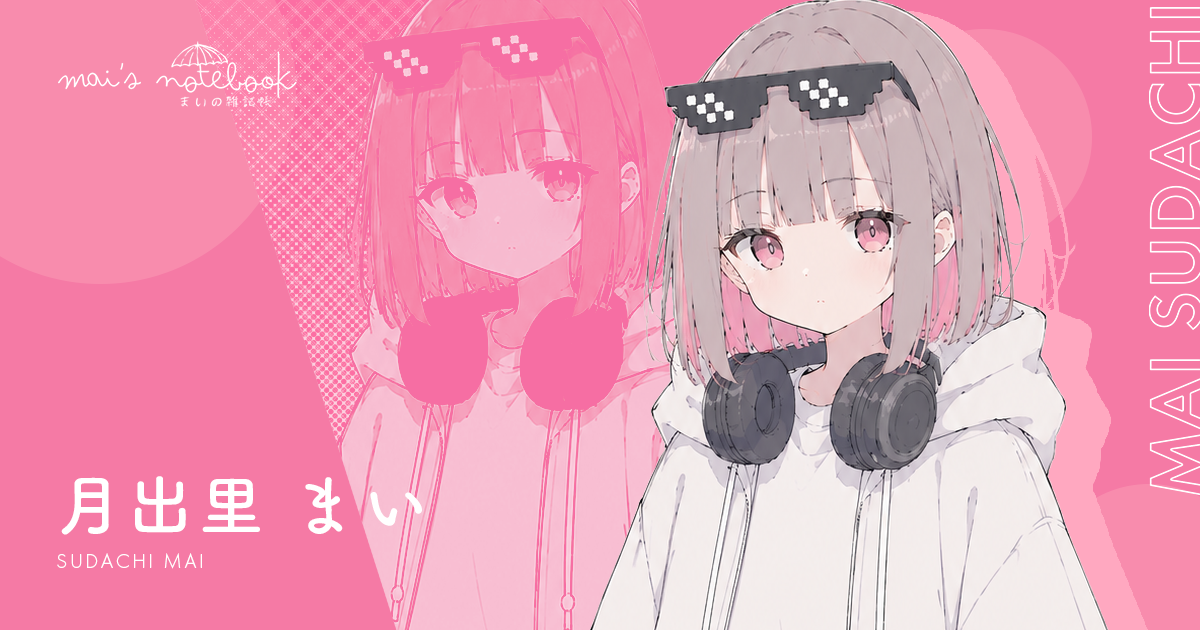
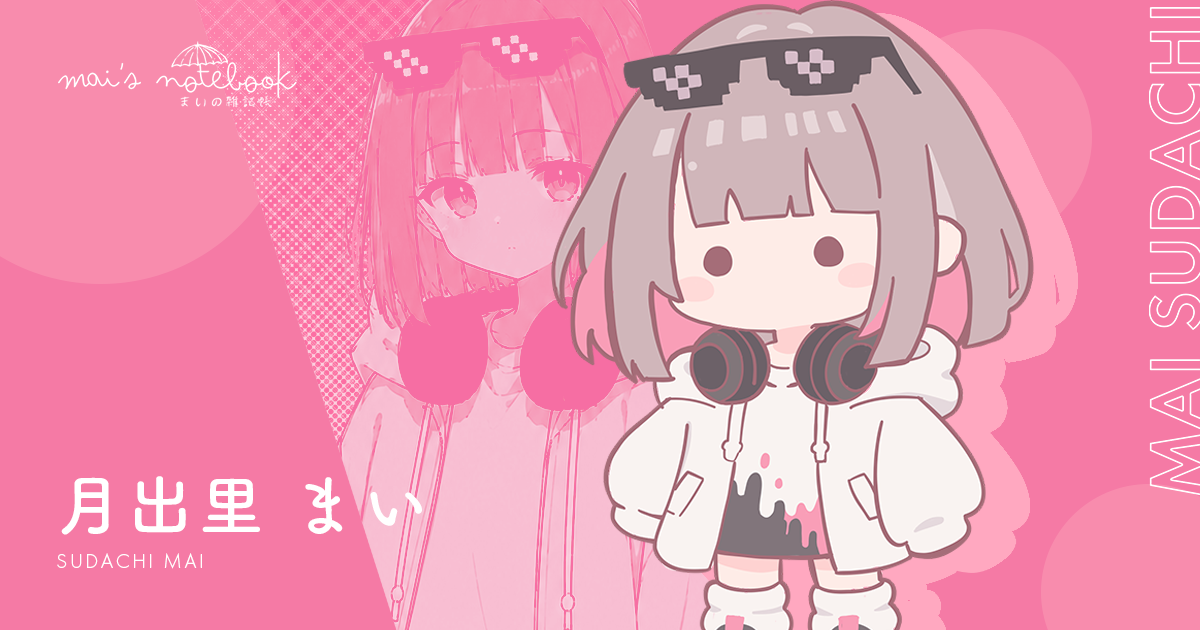
chore: デフォルメ置き換え

Changed region(s): [[0.4317, 0.0, 0.9558, 1.0]]

diff --git a/app/components/AboutHeroVisual.vue b/app/components/AboutHeroVisual.vue
@@ -57,12 +57,12 @@ const socials = Object.values(config.value.socials);
 
       <!-- 立ち絵 -->
       <div
-        class="absolute w-full top-0 z-20 -translate-y-[75%] md:-translate-y-2/3 scale-80 md:scale-100 -right-0 md:right-[15%]">
+        class="absolute w-full top-0 z-20 -translate-y-[88%] translate-x-[22%] md:-translate-y-2/3 md:translate-x-0 scale-80 md:scale-100 -right-0 xl:right-[15%]">
         <div
           class="character-glow absolute w-full h-full top-0 right-0 z-40 bg-white/10 blur-3xl rounded-full transform scale-150">
         </div>
         <NuxtImg src="/images/about/mai.png" format="webp" alt="Mai Sudachi" fetchpriority="high"
-          class="object-contain max-h-[800px] relative z-[60] ml-auto character-shadow" loading="eager"
+          class="object-contain max-h-[800px] md:w-[min(70vw,800px)] relative z-[60] ml-auto character-shadow" loading="eager"
           decoding="async" />
       </div>
     </div>
